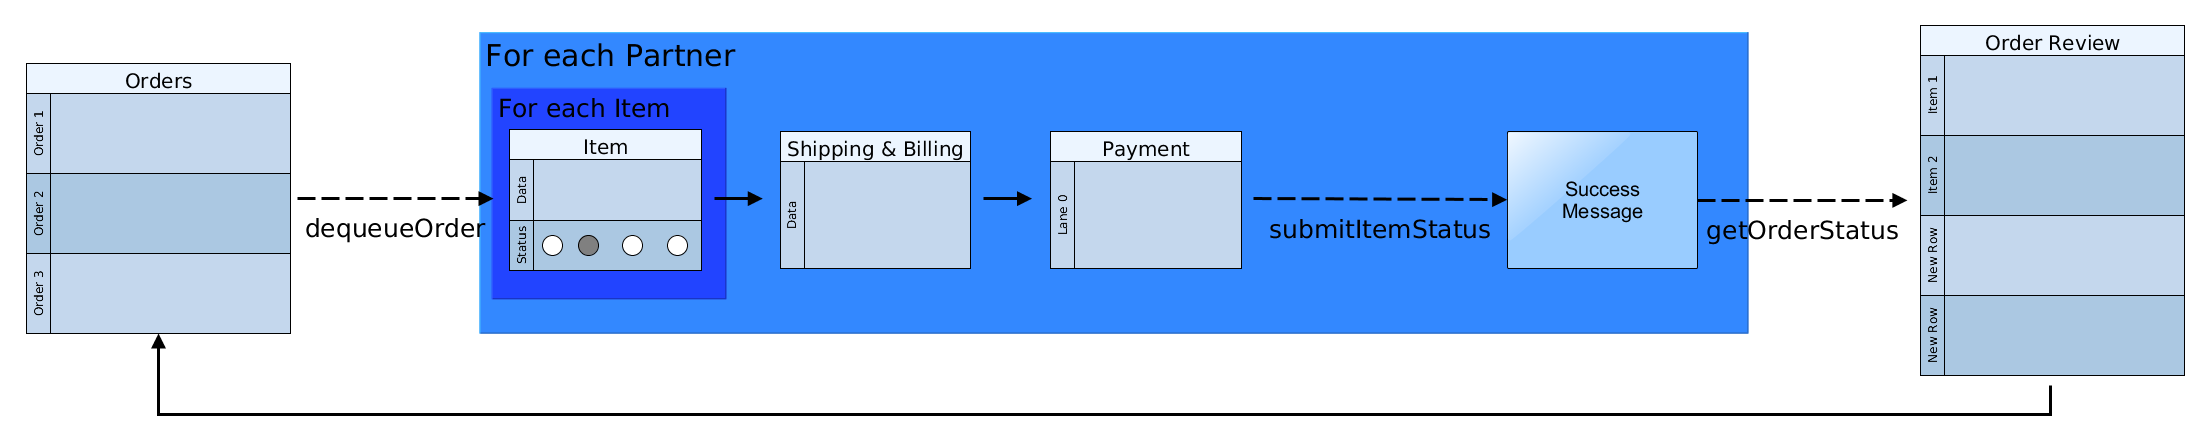
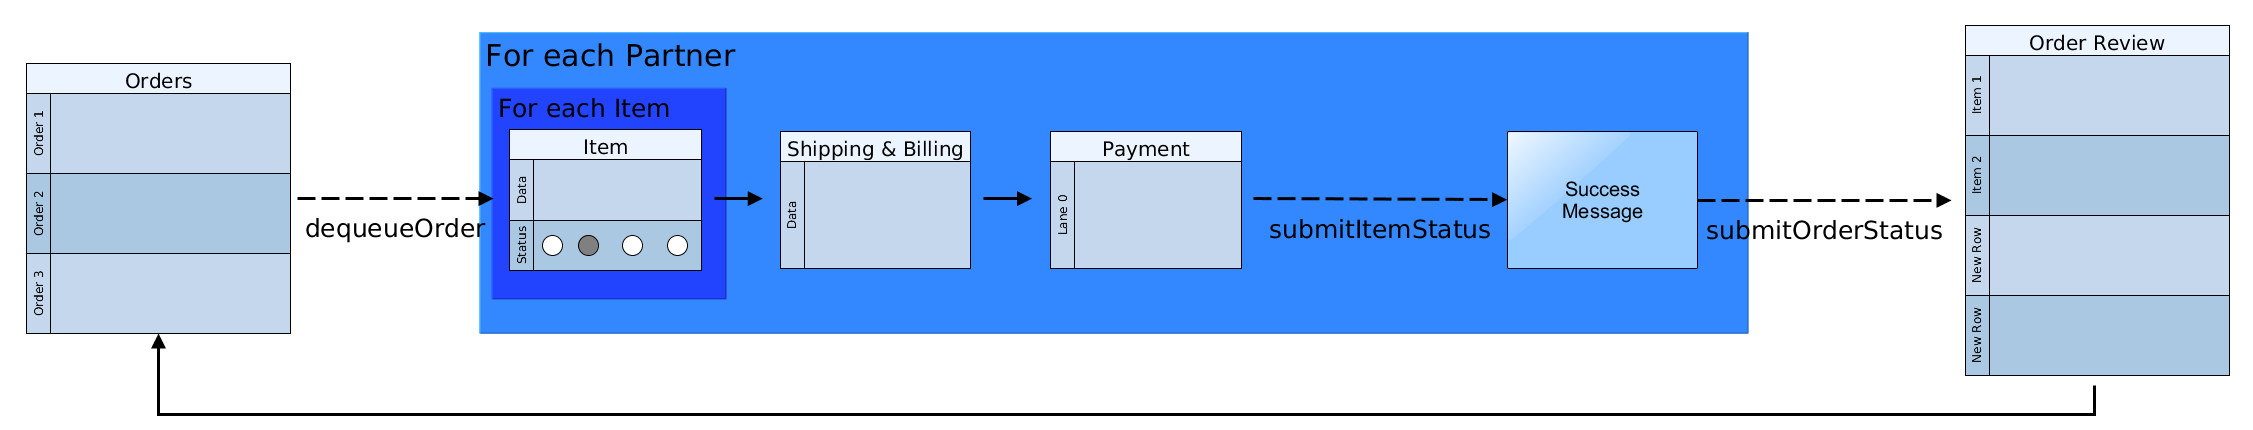
Added call to update the Items Status. Added call to update the Order Status according the Items Status.

diff --git a/src/components/homeComponents/steps/orderReview.js b/src/components/homeComponents/steps/orderReview.js
@@ -2,8 +2,9 @@ import React from 'react';
 import Buttonpad from 'components/homeComponents/buttonpads/general/buttonpad';
 import StatusDescription from 'components/homeComponents/resources/statusDescription';
 import {ORDER_REVIEW} from 'constants/stepTitles';
-import {CLOSE} from 'constants/stepButtonLabels';
+import {SUBMIT_ORDER_STATUS} from 'constants/stepButtonLabels';
 import Griddle from 'griddle-react';
+import Utilities from 'utilities/utilities';
 
 class OrderReview extends React.Component {
   
@@ -42,7 +43,7 @@ class OrderReview extends React.Component {
     	<div>
         <h2>{ORDER_REVIEW}</h2>
         Status
-        <StatusDescription data={this.props.order.status} />
+        <StatusDescription data={Utilities.calculateOrderStatus(this.props.order)} />
 	    	<div>
 					<script src="//cdnjs.cloudflare.com/ajax/libs/underscore.js/1.6.0/underscore-min.js"></script>
 					<script src="//fb.me/react-0.13.2.js"></script>
@@ -60,7 +61,7 @@ class OrderReview extends React.Component {
 					/>
 				</div>
 	      <div className="simple-form">
-	        <Buttonpad buttons={[{callback: this.props.callback, text: CLOSE}]} />
+	        <Buttonpad buttons={[{callback: this.props.callback, text: SUBMIT_ORDER_STATUS}]} />
 	      </div>
 	    </div>
     )

diff --git a/src/actions/ordersActions.js b/src/actions/ordersActions.js
@@ -1,6 +1,7 @@
 import flux from 'control';
 import {createActions} from 'alt/utils/decorators';
 import OrdersService from 'services/ordersService';
+import Utilities from 'utilities/utilities';
 
 @createActions(flux)
 class OrdersActions {
@@ -64,6 +65,35 @@ class OrdersActions {
     OrdersService.submitOrder(request)
       .then((response) => {
         this.dispatch(response.order);
+      })
+      .catch((errorMessage) => {
+        alert(errorMessage);
+      });
+  }
+
+  submitItemsStatus(items) {
+    var request = {
+      itemsStatus: items.map(function(item) {
+        return {id: item.id, status: item.status};
+      })
+    };
+    OrdersService.submitItemsStatus(request)
+      .then((response) => {
+        this.dispatch(response.order);
+      })
+      .catch((errorMessage) => {
+        alert(errorMessage);
+      });
+  }
+
+  submitOrderStatus(order) {
+    var request = {
+      id: order.id,
+      status: Utilities.calculateOrderStatus(order)
+    };
+    OrdersService.submitOrderStatus(request)
+      .then((response) => {
+        this.dispatch(request);
       })
       .catch((errorMessage) => {
         alert(errorMessage);

diff --git a/src/services/ordersService.js b/src/services/ordersService.js
@@ -113,6 +113,42 @@ var ordersService = {
     });
   },
 
+  submitItemsStatus: function (requestData) {
+  	requestData.userToken = ordersService.getUserToken();
+  	console.log('submitItemsStatus');
+  	console.log(requestData);
+    return new Promise(function (resolve, reject) {
+    	request
+				.post(API_GET_ORDER_URL)
+  			.send(requestData)
+				.end(function (err, res) {
+					if (res.status === 404) {
+						reject('Service not found');
+					} else {
+            resolve(res);
+					}
+			});
+    });
+  },
+
+  submitOrderStatus: function (requestData) {
+  	requestData.userToken = ordersService.getUserToken();
+  	console.log('submitOrderStatus');
+  	console.log(requestData);
+    return new Promise(function (resolve, reject) {
+    	request
+				.post(API_GET_ORDER_URL)
+  			.send(requestData)
+				.end(function (err, res) {
+					if (res.status === 404) {
+						reject('Service not found');
+					} else {
+            resolve(res);
+					}
+			});
+    });
+  },
+
 	getUserToken: function() {
 		return LoginStore.getState().user.token;
 	}

diff --git a/src/components/homeComponents/buttonpads/partnerWizardButtonpad.js b/src/components/homeComponents/buttonpads/partnerWizardButtonpad.js
@@ -1,6 +1,6 @@
 import React from 'react';
 import Buttonpad from 'components/homeComponents/buttonpads/general/buttonpad';
-import {CANCEL, BACK, CONTINUE, SUBMIT_CHANGES, CLOSE} from 'constants/stepButtonLabels';
+import {CANCEL, BACK, CONTINUE, SUBMIT_ITEM_STATUS, OK} from 'constants/stepButtonLabels';
 
 class PartnerWizardButtonpad extends React.Component {
 
@@ -17,12 +17,12 @@ class PartnerWizardButtonpad extends React.Component {
       case (this.props.items.length+2):
         buttons = [
                     {callback: callbacks.previousStep, text: BACK},
-                    {callback: callbacks.submitChanges, text: SUBMIT_CHANGES}
+                    {callback: callbacks.submitItemsStatus, text: SUBMIT_ITEM_STATUS}
                   ];
         break;
       case (this.props.items.length+3):
         buttons = [
-                    {callback: callbacks.closeWizard, text: CLOSE}
+                    {callback: callbacks.closeWizard, text: OK}
                   ];
         break;                  
       default:

diff --git a/src/components/homeComponents/fluxes/partnerWizardFlux.js b/src/components/homeComponents/fluxes/partnerWizardFlux.js
@@ -1,4 +1,5 @@
 import React from 'react';
+import OrdersActions from 'actions/ordersActions';
 import PartnerWizardStep from 'components/homeComponents/steps/general/partnerWizardStep';
 import PartnerWizardButtonpad from 'components/homeComponents/buttonpads/partnerWizardButtonpad';
 
@@ -27,16 +28,14 @@ class PartnerWizardFlux extends React.Component {
     return {
       previousStep: this.previousStep,
       nextStep: this.nextStep,
-      submitChanges: this.submitChanges,
+      submitItemsStatus: this.submitItemsStatus,
       closeWizard: this.closeWizard,
       cancelChanges: this.props.callbacks.cancelChanges
     };
   }
 
-  submitChanges = evt => {
-    //TODO: call to submitchanges
-    console.log('submitChanges');
-    this.props.callbacks.submitChanges();
+  submitItemsStatus = evt => {
+    OrdersActions.submitItemsStatus(this.props.items);
     this.nextStep();
   }
 

diff --git a/src/utilities/utilities.js b/src/utilities/utilities.js
@@ -1,3 +1,6 @@
+import {ORDER_ITEM_PROCESSED_SUCCESSFULLY} from 'constants/orderStatus';
+import {PARTIALLY_COMPLETED_ORDER} from 'constants/orderStatus';
+import {SUCCESSFULLY_COMPLETED_ORDER} from 'constants/orderStatus';
 
 var utilities = {
 
@@ -6,7 +9,18 @@ var utilities = {
 		for (var key in objSrcClone) {
 			objDest[key] = objSrcClone[key];
 		}
-	}
+	},
+
+	calculateOrderStatus: function(order) {
+    for (var i = 0; i < order.partners.length; i++) {
+      for (var j = 0; j < order.partners[i].items.length; j++) {
+        if (order.partners[i].items[j].status != ORDER_ITEM_PROCESSED_SUCCESSFULLY) {
+          return PARTIALLY_COMPLETED_ORDER;
+        }
+      }
+    }
+    return SUCCESSFULLY_COMPLETED_ORDER;
+	}	
 
 }
 

diff --git a/src/components/homeComponents/fluxes/orderWizardFlux.js b/src/components/homeComponents/fluxes/orderWizardFlux.js
@@ -23,8 +23,9 @@ class OrderWizardFlux extends React.Component {
     })
   }
 
-  submitChanges = evt => {
-    OrdersActions.submitOrder(this.props.order);
+  submitOrderStatus = evt => {
+    OrdersActions.submitOrderStatus(this.props.order);
+    this.props.closeWizard();
   }
 
   getButtonpadCallbacks() {
@@ -33,7 +34,7 @@ class OrderWizardFlux extends React.Component {
       nextStep: this.nextStep,
       closeWizard: this.props.closeWizard,
       cancelChanges: this.props.cancelChanges,
-      submitChanges: this.submitChanges
+      submitOrderStatus: this.submitOrderStatus
     };
   }
 

diff --git a/src/components/homeComponents/steps/general/orderWizardStep.js b/src/components/homeComponents/steps/general/orderWizardStep.js
@@ -7,7 +7,7 @@ class OrderWizardStep extends React.Component {
   render() {
     if (this.props.step > this.props.order.partners.length) {
       return <OrderReview order={this.props.order}
-                          callback={this.props.callbacks.closeWizard} />
+                          callback={this.props.callbacks.submitOrderStatus} />
     }
     return <PartnerWizardFlux items={this.props.order.partners[this.props.step-1].items}
                               name={this.props.order.partners[this.props.step-1].name}

diff --git a/src/stores/ordersStore.js b/src/stores/ordersStore.js
@@ -30,6 +30,14 @@ class OrdersStore {
     delete this.dequeuedOrder;
   }
 
+  @bind(OrdersActions.submitOrderStatus)
+  submitOrderStatus(response) {
+    console.log('submitOrderStatus');
+    console.log(this.orders);
+    console.log(response);
+    this.orders[response.id].status = response.status;
+  }
+
 }
 
 export default OrdersStore;

diff --git a/src/constants/stepButtonLabels.js b/src/constants/stepButtonLabels.js
@@ -3,5 +3,8 @@ export default {
 	BACK: 'Back',
 	CONTINUE: 'Continue',
 	SUBMIT_CHANGES: 'Submit Changes',
+	SUBMIT_ITEM_STATUS: 'Submit Item Status',
+	SUBMIT_ORDER_STATUS: 'Submit Order Status',
+	OK: 'Ok',
 	CLOSE: 'Close'
 }

diff --git a/src/mocks/mocks.js b/src/mocks/mocks.js
@@ -21,7 +21,7 @@ var mockedOrders = {
 };
 
 function addDataToOrder(order) {
-	order["id"] = 1;
+	order["id"] = order.orderId;
 	order["shippingCents"] = 999;
 	order["taxCents"] = 875;
 	order["orderTotalCents"] = 10000;
